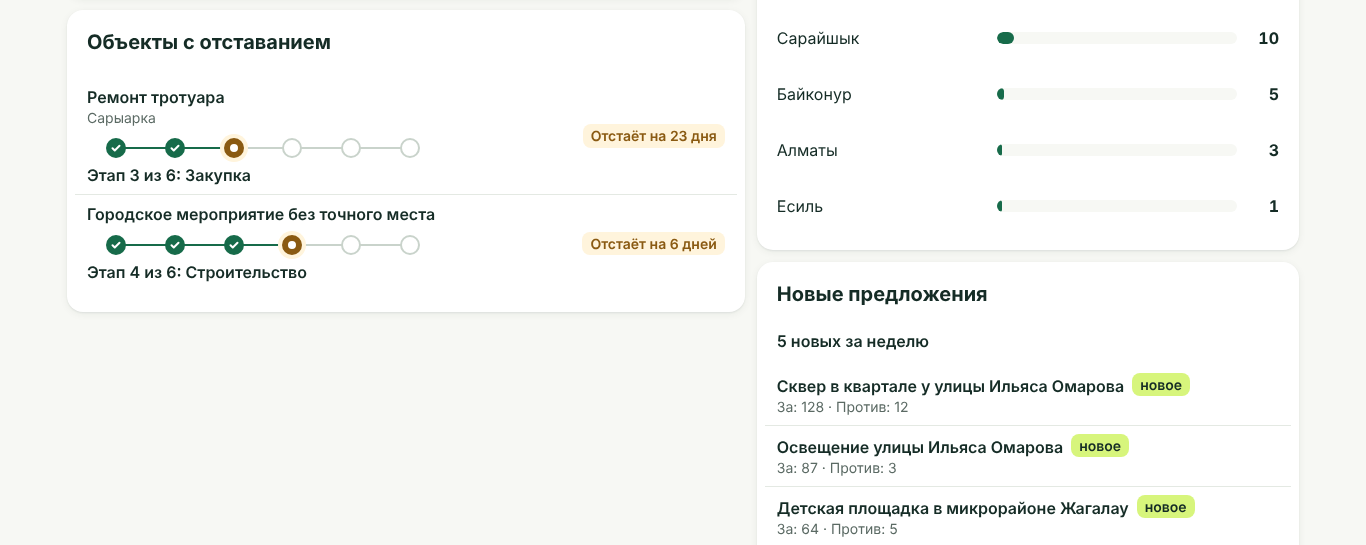
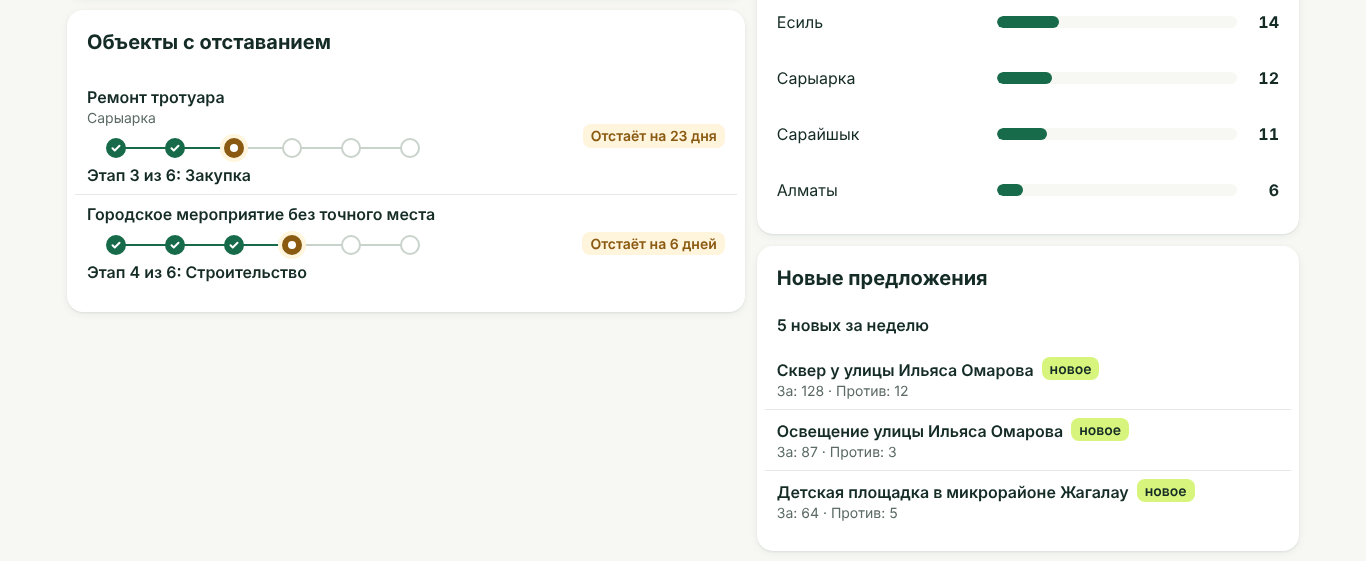
R08 night r1: delivery 3 (code 463901f) — DELIVERY, INTEGRATION (R07/R06 requests closed), STATUS with owner questions, live R06 6b9da27 screenshots
Claude-Session: https://claude.ai/code/session_01BQcvkYoitTX6dbS796y8BS

diff --git a/research/handoffs/astana/R08/round14/STATUS.md b/research/handoffs/astana/R08/round14/STATUS.md
@@ -1,47 +1,40 @@
 Задача: Раунд 14 · R08 · «Картина дня» для акима
-Агент: Claude Code (облачная сессия) · Астана · Birge
-Обновлено: 2026-10-10 (поставка 2 — день 3, для сборки B2)
-Статус: done (поставка 2) — замечания UX_REVIEW R11 «День 3» закрыты; ждёт R01 (монтаж B-011), R07 (демо-набор)
-Ветка: claude/r14-R08 · основа claude/round-14-package @ 2131c15 · код 4ce8f08 (поставка 1 — 9f1d9c0)
-Пути: ui/civic_akim/, web/civic/akim/, tests/civic/R08/, research/round-14-results/R08/
+Обновлено: 2026-10-10, ночь (круг 1)
+Статус: готово к FINAL — все замечания к R08 закрыты; R01 нужно взять новые версии R08, R07, R06
+Ветка: claude/r14-R08 · код 463901f (поставка 3) · прошлые поставки: 9f1d9c0, 4ce8f08
 
-Поставка 2 — замечания R11 (UX_REVIEW.md, ветка claude/r14-R11, «День 3»):
- 9  демо-числа как авария → тест test_r08_demo_plausible.py (просрочено < новых за неделю и ≤ 10, неделя ±40 %,
-    районы ≤ ×10). Сейчас XFAIL на наборе R07 @ 3eb3f9d (56 просрочено; 104 против 15; Нура 149 / Есиль 1).
-    Данные правит R07 — INTEGRATION.txt п. 4а. Строгий режим: BIRGE_STRICT_DEMO=1.
- 10 телефон: одно изменение в карточке, «За 7 дней» только на ноутбуке (< 480 px). ui_check PASS.
- 11 «Пример» — одна метка у заголовка + строка «Пример: …» сверху; в карточках нет. ui_check PASS ×4.
- 12 горячее место → карта: R08-часть (ссылка /#target=kind:id&days=7 + birge:open-target) PASS; разбор — R01/R07.
- 13 поле даты: формат задаёт ОС. С LANG=ru_RU.UTF-8 → 10.10.2026 (screens/akim-date-*-os-ru_RU.png).
-    kk_KZ в контейнере нет — проверка на ноутбуке с казахской Windows NOT_RUN.
- 14 полоса этапов .bk-stages--compact (+ --late) и «Этап 4 из 6: Строительство» / «Кезең 4/6: Құрылыс». PASS.
- +  «в 6,9 раз» → «в 6,9 раза» (обход формы в словаре R11, просьба R11); kk «дерек» → «деректер».
+КОРОТКО ДЛЯ ВЛАДЕЛЬЦА
+- «Картина дня» работает: 4 числа, сводка ru/kk, горячие места, темы, районы, объекты, предложения, печать.
+- Ночью закрыто:
+  1) R15: в общей сборке тест R08 падал при сборе («assert 0 >= 3») — исправлено, тест устойчив к данным R07.
+  2) R10 B-018 / LOCAL_B2 №4: в ҚАЗ были русские названия объектов. R06 (6b9da27) дал казахские названия —
+     проверил вживую; если у настоящего объекта казахского названия нет, показываю вид объекта по-казахски.
+  3) R11 п. 13: числа «как авария». С новым демо-набором R07 (35e6feb) день выглядит обычным:
+     новых 51 (неделю назад 37), просрочено 6, исправлено за неделю 142. Тест правдоподобия — PASS.
+  4) «Неделю назад» теперь учитывает время каждого «Я тоже» (как карта R07).
+- Проверки: pytest 129/129 (без R07 — 114 + 2 пропуска с причиной), браузер 97/97 (1366/375 × ru/kk),
+  живой R06 — PASS. Скриншоты: research/round-14-results/R08/screens/.
 
-Запросы соседей — что закрыто:
- - R06 функции → ЗАКРЫТО: ui.civic_store.v2.lagging_objects / list_proposals (словари разворачиваются сами;
-   до bind() — фикстуры с «Пример»; ошибка R06 — «не отвечает»). Проверено вживую на базе R06 @ 3d10f7d.
- - R11 31 ключ akim.* → ЗАКРЫТО: akim.i18n.json удалён, тексты только из общего словаря (R11 @ 6102dfb, 0 пропусков).
- - R10 B-005 (стенд без R07) → ЗАКРЫТО: RUN.txt п. 1–3, demo_server.py печатает «ВНИМАНИЕ» и команду.
- - R10 B-010 (osm-relation) → R08 не задевает: id целей не фильтрует.
- - ОТКРЫТО: R07 records()/generation (нет в 3eb3f9d; работаем через _records), R07 демо-набор (п. 4а),
-   R01 монтаж экрана и маршрут (B-011, INTEGRATION п. 1–3), R11 akim.delta.ratio ru other (п. 7),
-   R06 title_kk у демо-объектов (п. 6, мелочь).
+ЧТО НУЖНО ОТ ДРУГИХ (для FINAL)
+- R01: взять R08 @ 463901f, R07 @ 35e6feb (без него числа «как авария»), R06 @ 6b9da27 (казахские названия),
+  R11 @ последний. Клик «горячее место → карта» (#target=…&days=7) разбирает R01/R07 — у R08 ссылка готова.
+- R10: перепроверить B-005, B-018 и п. 13 R11 на FINAL.
 
-Проверки (облако, Python 3.13, Node 22, Playwright 1.56.1 + Chromium 1194):
- - pytest tests/civic/R08: 126 PASS + 1 XFAIL (демо R07); без ui/civic_heat — 110 PASS + 2 SKIP с причиной.
- - node tests/civic/R08/ui_check.cjs (demo_server --kit-dir R11 @ 6102dfb): 95/95 PASS, 1366/375 × ru/kk,
-   скриншоты research/round-14-results/R08/screens/ (+ akim-*-r06-objects.png с живым R06).
- - NOT_RUN: экран в сборке R01 (не смонтирован, B-011), открытие цели картой (R01/R07).
+ВОПРОСЫ ВЛАДЕЛЬЦУ УТРОМ
+1. Сроки для «Просрочено» — мой демо-норматив (снег 2 дня, ямы 7, ЖКХ 1, благоустройство 14 —
+   ui/civic_akim/deadlines.py). Оставить или есть нормативы акимата?
+2. «Просрочено» у акима = «не исправлено в срок» (R08). У R09 есть ещё «нет первого ответа в срок».
+   Какой смысл показывать акиму? (Сейчас первый; поменять — одна функция.)
+3. Настоящий объект без казахского названия: в ҚАЗ показываю вид («Жол жөндеу»). Устраивает, или лучше
+   русское название как есть?
 
-Важно для следующей сессии:
- - ui/civic_heat — ВРЕМЕННАЯ копия R07 (в git не добавлена, .git/info/exclude):
-     git fetch origin claude/upbeat-knuth-i0rqaa && git archive origin/claude/upbeat-knuth-i0rqaa ui/civic_heat | tar -x
- - Словарь/ui-kit R11 для стенда: git archive origin/claude/r14-R11 web/civic/ui-kit web/civic/i18n | tar -x -C <папка>
-   python tests/civic/R08/demo_server.py --kit-dir <папка>   (без него — ключи вместо текста, сервер предупредит)
- - Живой R06: отдельная рабочая копия claude/round-14-r06 + копия ui/civic_akim; RUN.txt п. 4 (--r06-db).
-
-Следующий шаг:
- - Когда R01 соберёт B2 — node tests/civic/R08/ui_check.cjs http://127.0.0.1:8501 на общем сервере, проверить
-   клик «горячее место → карточка цели» вживую и что akim.i18n.json нет в CIVIC_ASSETS.
- - Когда R07 обновит demo_seed — test_r08_demo_plausible.py должен стать PASS; затем переснять 4 скриншота.
- - Когда R11 добавит akim.delta.ratio other — ratioText в akim.js можно оставить (ничего не меняет) или убрать.
+ДЛЯ СЛЕДУЮЩЕЙ СЕССИИ
+- ui/civic_heat в рабочей папке — временная копия R07 (в git не входит):
+    git archive origin/claude/upbeat-knuth-i0rqaa ui/civic_heat | tar -x
+- Стенд как в сборке: словарь R11 → папка (git archive origin/claude/r14-R11 web/civic/ui-kit web/civic/i18n | tar -x -C <папка>),
+  python tests/civic/R08/demo_server.py --kit-dir <папка>; NODE_PATH=$(npm root -g) node tests/civic/R08/ui_check.cjs
+- Живой R06: рабочая копия claude/round-14-r06 + копии ui/civic_akim, ui/civic_heat, tests/civic/R08, web/civic/akim;
+  python -m ui.civic_store --db X init && … seed-r14-demo; demo_server.py --r06-db X (RUN.txt п. 4).
+- Следующий шаг: в начале каждого круга git fetch и проверить BUGS/ACCEPTANCE (R10), UX_REVIEW (R11),
+  SECURITY_REVIEW (R15), LOCAL_B2, R01 INTEGRATION §9; если R01 выпустит FINAL-кандидат — прогнать
+  ui_check.cjs на его сервере.
